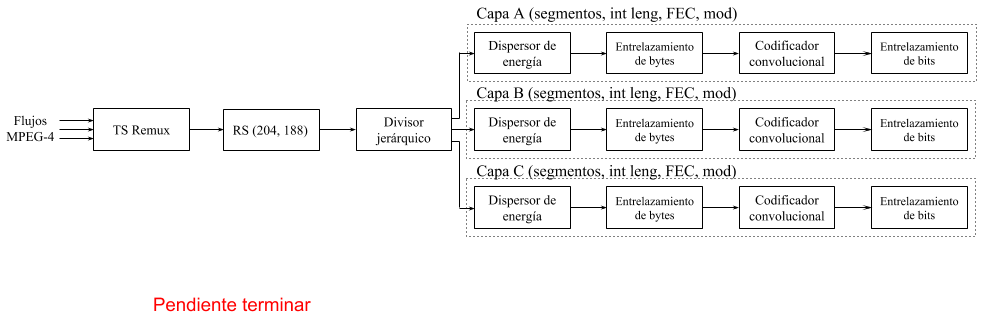
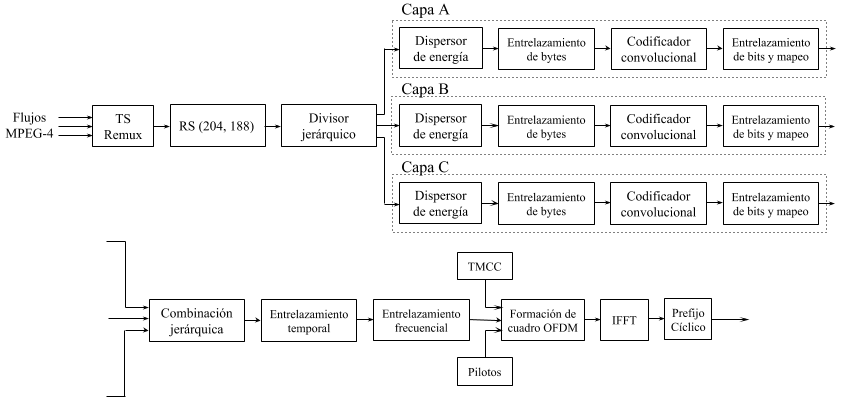
Capitulo 3 - actualizacion

diff --git a/capitulo_03.tex b/capitulo_03.tex
@@ -23,7 +23,6 @@ Se define la frecuencia de muestreo de la IFFT como $f_{IFFT} \triangleq \frac{5
 Cada segmento a su vez est\'a conformado por dos tipos de señales portadoras. Las primeras son las correspondientes a los datos, y las otras son las denominadas \textit{portadoras piloto} que cumplen se utilizan para la estimaci\'on del canal y transmisi\'on de par\'ametros de control e informaci\'on del sistema.
 De manera general, los segmentos tienen $96 \times 2^{modo-1}$ portadoras de datos $12 \times 2^{modo-1}$ portadoras piloto dependiendo del modo de transmisi\'on. En la Tabla \ref{parametros_ISDBT} se eval\'uan estos par\'ametros para los distintos modos de transmisi\'on. 
 
-******* Prefijo c\'iclico (Considerar lo que se hablo en el CAP 2 para no ser reiterativos)******.
 
 \begin{figure}
 \centering
@@ -97,15 +96,46 @@ Como medida adicional para contrarrestar los efectos del canal se utiliza el \te
 Al transmitir en m\'ultiples portadoras ortogonales se corre el riesgo de atravesar canales selectivos en frecuencia y por lo tanto que ciertas portadoras se vean continuamente afectadas. Para mitigar esto una estrategia puede ser rotar de portadora los contenidos que se transmiten, es decir hacer un \textit{entrelazamiento frecuencial}. Con esto se logra que ante un canal selectivo, ya lo sea por sus caracter\'isticas propias o por interferencias de señales espurias fuera de banda, las portadoras que son afectadas no resulte en una p\'erdida de bloques de informaci\'on irrecuperables.
 
 
+\section{Formacion de los cuadros OFDM}
+
+El estándar define una estructura de cuadro OFDM formada por un conjunto de 204 símbolos OFDM consecutivos, es decir que, por ejemplo, para el modo 1 se tienen 108 símbolos complejos por segmento con lo cual un cuadro OFDM en modo 1 está compuesto por $108 \times 13 \times 204$ complejos. Esta estructura facilita las tareas de sincronización en el receptor.
+
+
 \section{Las portadoras y la modulacion}
 
+Cada segmento OFDM está conformado por una cantidad de portadoras en función del modo de transmisión. La mayor cantidad de portadoras está destinada a la transmisión de los datos mientras que algunas otras son utilizadas como mecanismos para la estimación del canal, sincronización, transmisión de parámetros de funcionamiento entre otros.
 
-DATOS
+
+
 Scattered Pilot
-TMCC
-AC
+Las portadoras piloto son señales moduladas en BPSK que se generan a partir de una secuencia pseudoaleatoria PRBS (Pseudo Random Binary Sequence). El procedimiento para generar estas portadoras consiste en evolucionar el circuito de la Figura XX y tomar Wi para la modulación BPSK. El índice de la portadora SP dentro del símbolo OFDM es el que determina la cantidad de veces que se debe evolucionar el registro para obtener $W_i$.
+Por último la modulación se realiza como $(4/3, 0)$ si $W_i = 0$, y $(-4/3, 0)$ si $W_i = 1$.
+
+Las SP se ubican cada 12 portadoras y a medida que transucrren los símbolos OFDM las mismas van rotando $3 \times n MOD 4$, donde $n$ es el número de símbolo OFDM. Esto sucede así puesto que la función de estas portadoras es justamente la estimación del canal y por lo tanto para contemplar la situación de todo el canal de 6MHz es necesario ir rotándolas. 
+
+
+% Circuito generador y portadoras
+
+Portadora TMCC
+Las portadoras TMCC son las que transportan toda la información de las capas jerárquicas y la información de control. Si bien en los cuadros OFDM se transmiten varias TMCC estas tienen exactamente el mismo contenido, lo que da al receptor la posibilidad de ponderar todas las TMCC que recibe para quedarse con las que tienen mayor porcentaje de coincidencia entre sí.
+Se compone de 204 bits modulados en DBPSK de los cuales el primero es un bit de referencia para realizar la modulación diferencial. Este bit coincide con el valor de la $W_i$ correspondiente al primer símbolo del cuadro OFDM.
+Los siguientes 16 bits son utilizados por una señal de sincronismo que puede tomar los valores $w_0 = 0011010111101110$ y $w_1 = 1100101000010001$, alternándose entre una y otra en cada cuadro OFDM.
+A continuación se encuentran los datos de la información jerárquica y otros parámetros para los que se dedican 105 bits. Estos 105 bits son protegidos por un código cíclico acortado (200,118) con lo cual se dedican los siguientes 82 bits para la paridad. 
+  
+Portadoras Auxiliares
+
+Las portadoras auxiliares están pensadas para transmitir información complementaria del control de transmisión. Utilizan modulación diferencial DBPSK con referencia $W_i$ al igual que la TMCC. Su uso es opcional y el sistema puede trabajar perfectamente prescindiendo de ellas; en caso de no ser usadas los bits correspondientes a las portadoras AC se rellenan con "1".
+
 Piloto Continuo
-\section{Formacion de los frames OFDM}
+Al igual que las SP, se agrega un piloto continuo a la derecha del segmento 12 con propósitos de sincronismo en recepción. Su modulación también es BPSK y toma el valor de $(-4/3, 0)$, $(4/3, 0)$, $(4/3, 0)$ para los modos 1, 2 y 3 respectivamente.
+
+
+
+
+
+
+
+
 \section{La puesta en el aire de la señal}
 
 ?Equipos USRP, Antenas, ganancias, potencia, SNR necesario (??por esto es que no logramos recibir aun???)?
